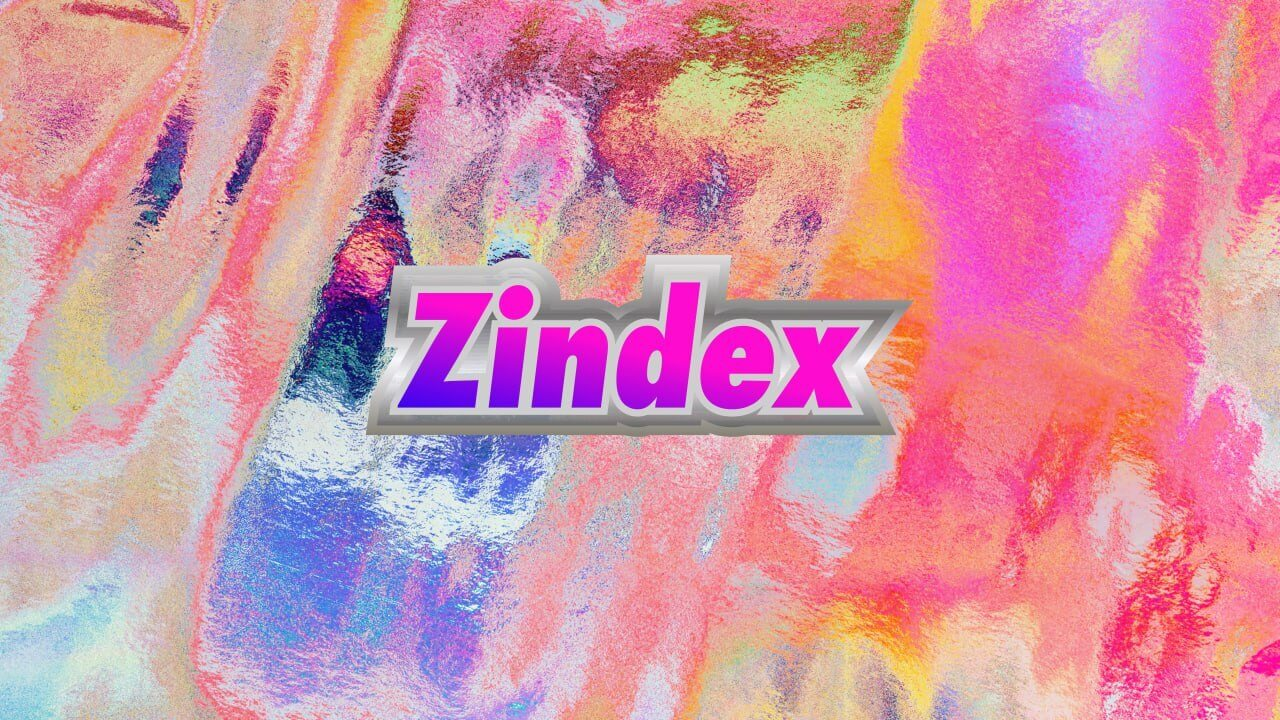
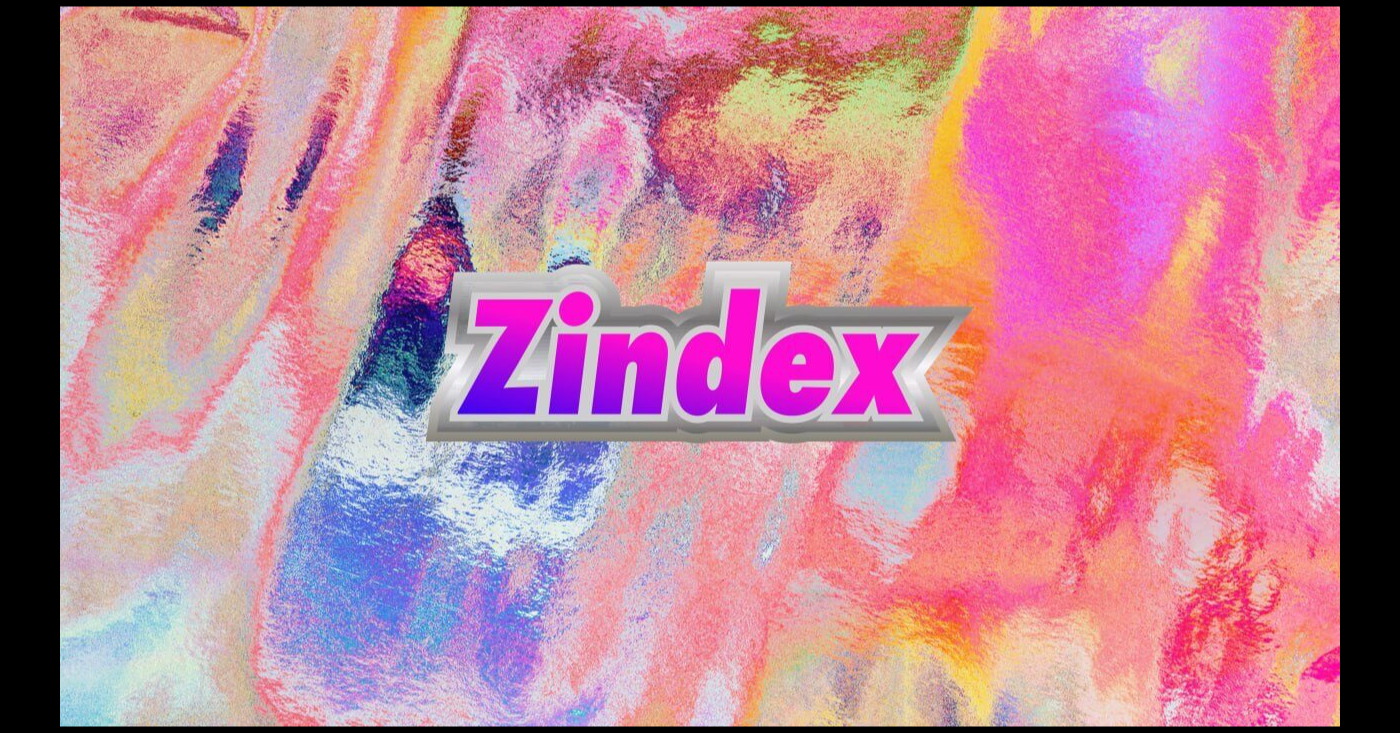
chore: improve seo

diff --git a/src/seo/generate-seo-pages.ts b/src/seo/generate-seo-pages.ts
@@ -72,10 +72,13 @@ function generateMetaTags(token: SEOToken, fullUrl: string): string {
 
     <!-- Open Graph / Facebook -->
     <meta property="og:type" content="website" />
+    <meta property="og:site_name" content="Reserve Protocol" />
     <meta property="og:url" content="${fullUrl}" />
     <meta property="og:title" content="${escapeHtml(title)}" />
     <meta property="og:description" content="${description}" />
     <meta property="og:image" content="${image}" />
+    <meta property="og:image:width" content="1400" />
+    <meta property="og:image:height" content="733" />
 
     <!-- Twitter -->
     <meta name="twitter:card" content="summary_large_image" />
